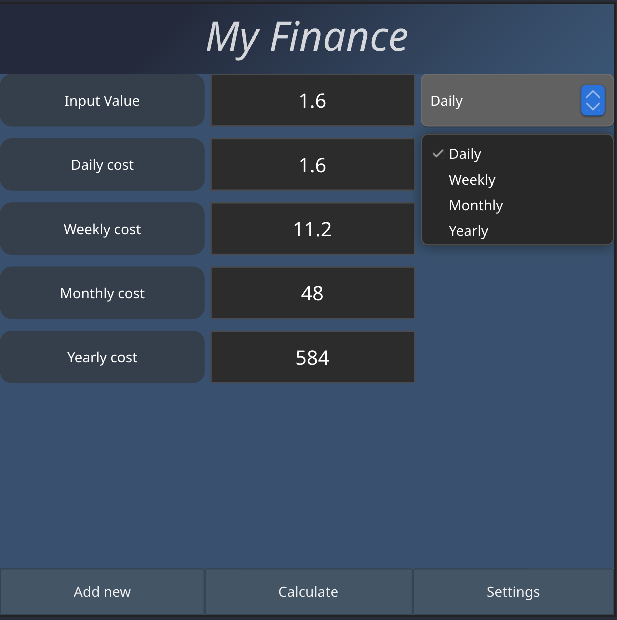
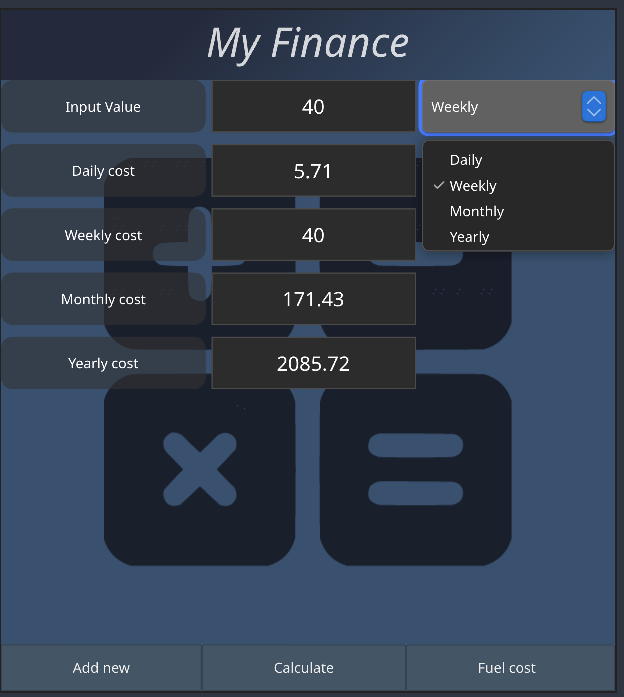
Refactor FuelComponent: Update fuel cost, distance, consumption, and total cost calculations (#2)
* Refactor .gitignore: Add notes.txt

* Add FuelComponent and update active-tab value

* Refactor FuelComponent: Update fuel cost, distance, consumption, and total cost calculations
change ui to match needs

* Refactor AppWindow: Update fuel cost, distance, consumption, and total value properties

* Refactor finance.rs: Add calculate_fuel_cost function

* change readme

* Add fuel cost estimation callback

* initial values of fuel tab to 0

* app styling changed

* Bump version to 1.0.0 in Cargo.toml

* add lib (webassembly)

* Add webassembly support and console error panic hook for wasm32 target

diff --git a/src/finance.rs b/src/finance.rs
@@ -28,6 +28,11 @@ pub fn sum_expenses(expenses_list: &Rc<slint::VecModel<Row>>) -> f32 {
     sum
 }
 
+pub fn calculate_fuel_cost(fuel_price: f32, distance: f32, consumption: f32) -> f32 {
+    fuel_price * distance * (consumption / 100.0)
+}
+
+
 #[cfg(test)]
 mod tests {
     use super::*;
@@ -142,5 +147,35 @@ mod tests {
         ]));
         let sum = sum_expenses(&todo_model);
         assert!(sum.is_nan());
+    }
+
+    #[test]
+    fn test_calculate_fuel_cost() {
+        let consumption: f32 = 4.0;
+        let distance: f32 = 100.0;
+        let fuel_price: f32 = 4.0;
+        let calculated_cost: f32 = calculate_fuel_cost(fuel_price, distance, consumption);
+        let expected: f32 = 16.0;
+        assert_approx_eq(calculated_cost, expected, 0.1);
+    }
+
+    #[test]
+    fn test_calculate_fuel_cost_zero_distance() {
+        let fuel_price = 5.0;
+        let distance = 0.0;
+        let consumption = 8.0;
+        let expected_cost = 0.0;
+        let calculated_cost = calculate_fuel_cost(fuel_price, distance, consumption);
+        assert_eq!(calculated_cost, expected_cost);
+    }
+
+    #[test]
+    fn test_calculate_fuel_cost_zero_consumption() {
+        let fuel_price = 5.0;
+        let distance = 200.0;
+        let consumption = 0.0;
+        let expected_cost = 0.0;
+        let calculated_cost = calculate_fuel_cost(fuel_price, distance, consumption);
+        assert_eq!(calculated_cost, expected_cost);
     }
 }

diff --git a/src/add_new.rs b/src/add_new.rs
@@ -5,6 +5,9 @@ use crate::finance::*;
 use slint::{FilterModel, Model, SortModel};
 use std::rc::Rc;
 
+#[cfg(target_arch = "wasm32")]
+use wasm_bindgen::prelude::*;
+
 slint::include_modules!();
 
 #[cfg_attr(target_arch = "wasm32", wasm_bindgen(start))]
@@ -14,6 +17,9 @@ pub fn main() {
     main_window.run().unwrap();
 }
 fn init() -> State {
+    #[cfg(all(debug_assertions, target_arch = "wasm32"))]
+    console_error_panic_hook::set_once();
+
     #[rustfmt::skip]
 let todo_model = Rc::new(slint::VecModel::<Row>::from(vec![
         Row { name: "Internet".into(), value: 20.0, checked: true, timespan: "Daily".into(), to_delete: false },
@@ -95,6 +101,17 @@ let todo_model = Rc::new(slint::VecModel::<Row>::from(vec![
         move || {
             let main_window = main_window_handle.unwrap();
             main_window.set_total_cost(sum_expenses(&todo_model_clone));
+        }
+    });
+
+    main_window.on_request_fuel_cost_estimations({
+        let main_window_handle = main_window.as_weak();
+        move || {
+            let main_window = main_window_handle.unwrap();
+            let fuel_price =  main_window.get__fuel_cost();
+            let distance = main_window.get__distance();
+            let consumption = main_window.get__consumption();
+            main_window.set__total_value(calculate_fuel_cost(fuel_price, distance, consumption));
         }
     });
 

diff --git a/README.md b/README.md
@@ -33,3 +33,8 @@ Allows to quickly check how much does something cost you depending how often you
 Allows to add new expenses to see total cost (in future there will be (daily,monthly and ect) functionalities added)
 
 ![add new](images/addnew_ui.png)
+
+## Fuel Cost Tab 
+Allows to quickly estimate fuel cost for your trip
+
+![fuel cost](images/fuel_ui.png)
